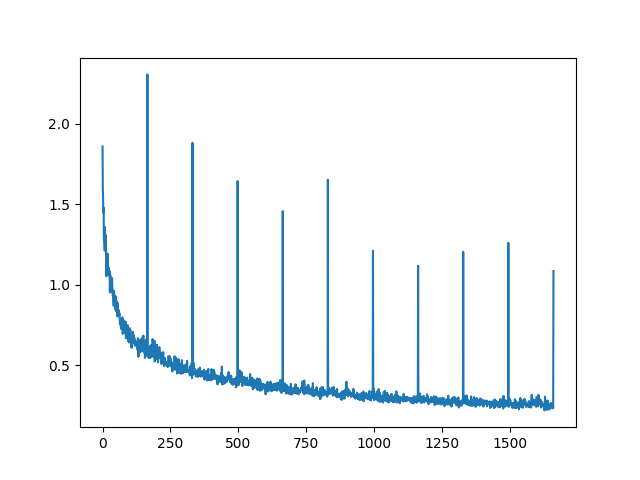
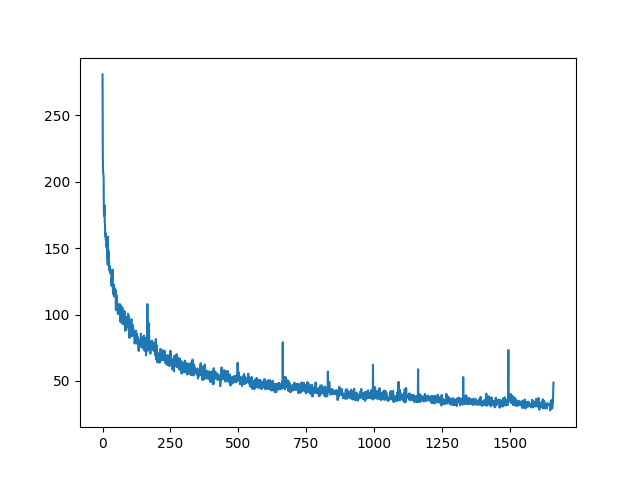
scan lr

diff --git a/hyperparameter_tuning/scan_optimal_lr.py b/hyperparameter_tuning/scan_optimal_lr.py
@@ -26,6 +26,7 @@ ssl._create_default_https_context = ssl._create_unverified_context
 torch.cuda.empty_cache( )
 config = {
     "mode": 'scan_scheduler',
+    "random_seed": 73,
     "num_epochs": 10,
     "batch_size": 128,
     "device": torch.device("cuda") if torch.cuda.is_available() else torch.device("cpu"),
@@ -53,6 +54,7 @@ if config["mode"] == 'scan_lr':
     This code is used to scan the optimal lr to train the Barlow Twins model. 
     Learnings: From the optimal lr range, We will start with the highest lr value,
     we will set this value to as the starting lr value for our trainings.
+
     Observations: We have found this lr value to be, approx lr: 2e-3
     '''                              
     back_model = torchvision.models.resnet18(zero_init_residual=True)
@@ -88,8 +90,12 @@ elif config["mode"] == 'scan_scheduler':
     - constant lr
     - multiplicative lr
     - cosine annealing lr
-    '''
 
+    Fixing seed every iteration since the random initialization can be
+    an important factor, and we want to factor it out: https://arxiv.org/abs/2109.08203
+
+    Observations: For our combinations, cosine similarity give the best results
+    '''
 
     back_model = torchvision.models.resnet18(zero_init_residual=True)
     model = BarlowTwins(config["barlow_lambda"])
@@ -102,24 +108,21 @@ elif config["mode"] == 'scan_scheduler':
 
     model.add_projector(
                         projector_sizes = [512, 512, 512, 512], 
-                        verbose = False)                    
+                        verbose = False)      
 
-    optimizer = torch.optim.Adam(model.parameters(), lr=config["lr"], weight_decay=config["optimizer_weight_decay"])
+    schedulers_list = ['None', 'Multiplicative', 'Cosine']
 
-    scheduler_list = [
-        torch.optim.lr_scheduler.MultiplicativeLR(optimizer, lr_lambda=lambda epoch: 0.64, last_epoch=- 1, verbose=True),
-        torch.optim.lr_scheduler.CosineAnnealingLR(optimizer, T_max=config["num_epochs"], verbose=True),
-        None,
-        ]
 
 
 
     sched_losses = defaultdict(list)
-    for i, scheduler in enumerate(scheduler_list):
+    for sched_name in schedulers_list:
+        
+        print("Training with scheduler: " + str(sched_name))
 
-        print("Training with scheduler: " + str(scheduler))
-
+        torch.manual_seed(config["random_seed"])
         torch.cuda.empty_cache( )
+
         back_model = torchvision.models.resnet18(zero_init_residual=True)
         model = BarlowTwins(config["barlow_lambda"])
         model.add_backbone( 
@@ -134,6 +137,15 @@ elif config["mode"] == 'scan_scheduler':
                             verbose = False)                    
 
         optimizer = torch.optim.Adam(model.parameters(), lr=config["lr"], weight_decay=config["optimizer_weight_decay"])
+
+        
+        if sched_name == 'None':
+            scheduler = None
+        elif sched_name == 'Multiplicative':
+            scheduler = torch.optim.lr_scheduler.MultiplicativeLR(optimizer, lr_lambda=lambda epoch: 0.64, last_epoch=- 1, verbose=True)
+        elif sched_name == 'Cosine':
+            scheduler = torch.optim.lr_scheduler.CosineAnnealingLR(optimizer, T_max=config["num_epochs"], verbose=True)
+
         for epoch in range(config["num_epochs"]):
             
             losses = train_one_epoch(loader, model, optimizer, config)
@@ -143,16 +155,10 @@ elif config["mode"] == 'scan_scheduler':
             sched_losses[str(scheduler)] += losses
             print(f"---> Avg epoch loss: {np.mean(losses)}" )
 
+        torch.save(torch.tensor(sched_losses[str(scheduler)]), str(scheduler)+"_scan_loss.pt")
+
         plt.plot(range(len(sched_losses[str(scheduler)])), sched_losses[str(scheduler)])
-        plt.savefig(f"{i}_sched_losses.png")
-        plt.show()
+        plt.savefig(f"{sched_name}_sched_losses.png")
 
-    with open('scheduler_losses.json', 'w') as fp:
-        json.dump(sched_losses, fp)
-
-    for k,v in sched_losses.items():
-        plt.plot(range(v), v)
-        plt.savefig(f"{k}_sched_losses.png")
-        plt.show()
 
 # %%
